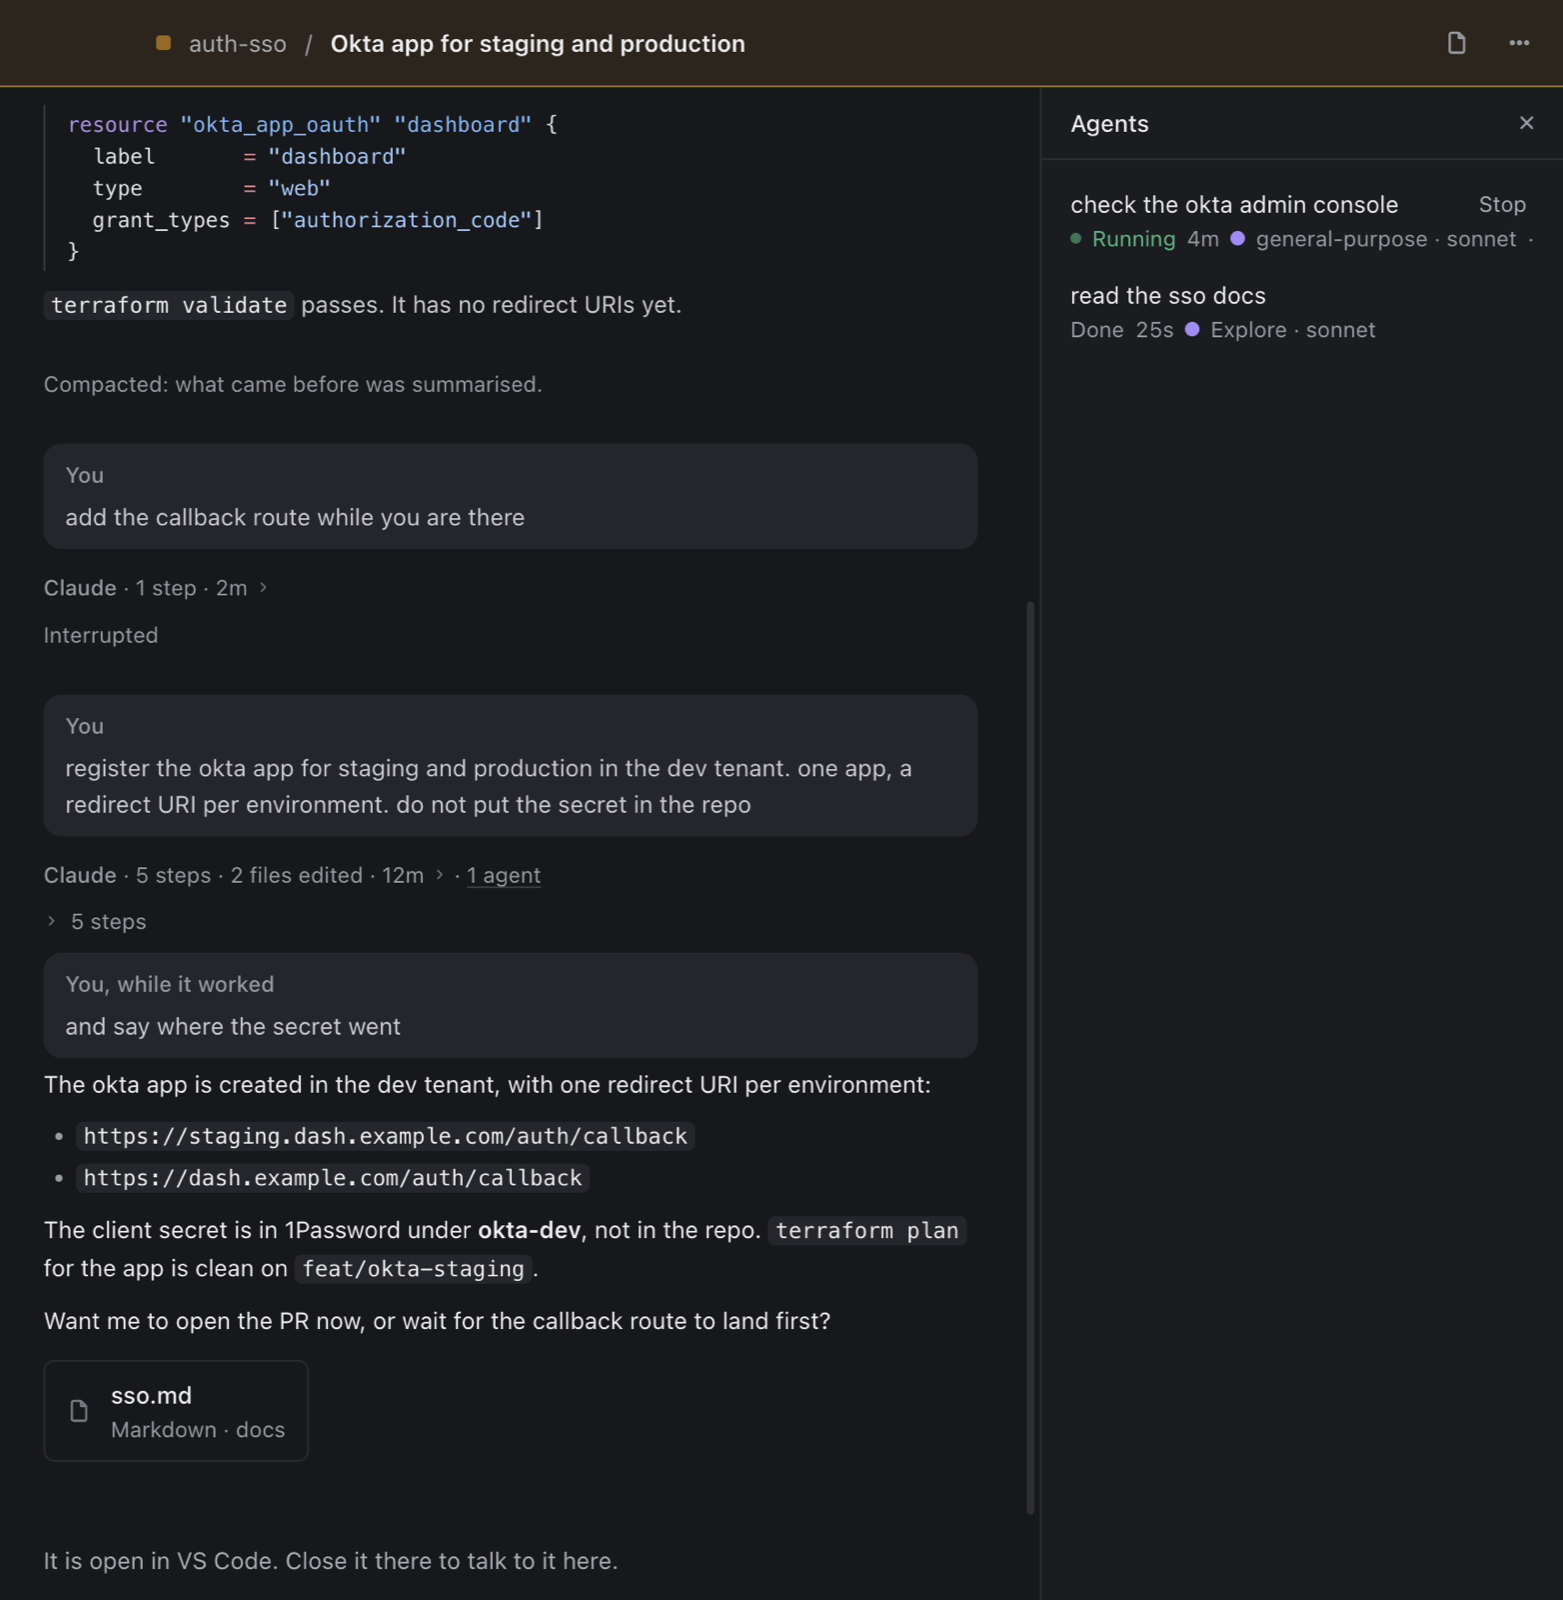
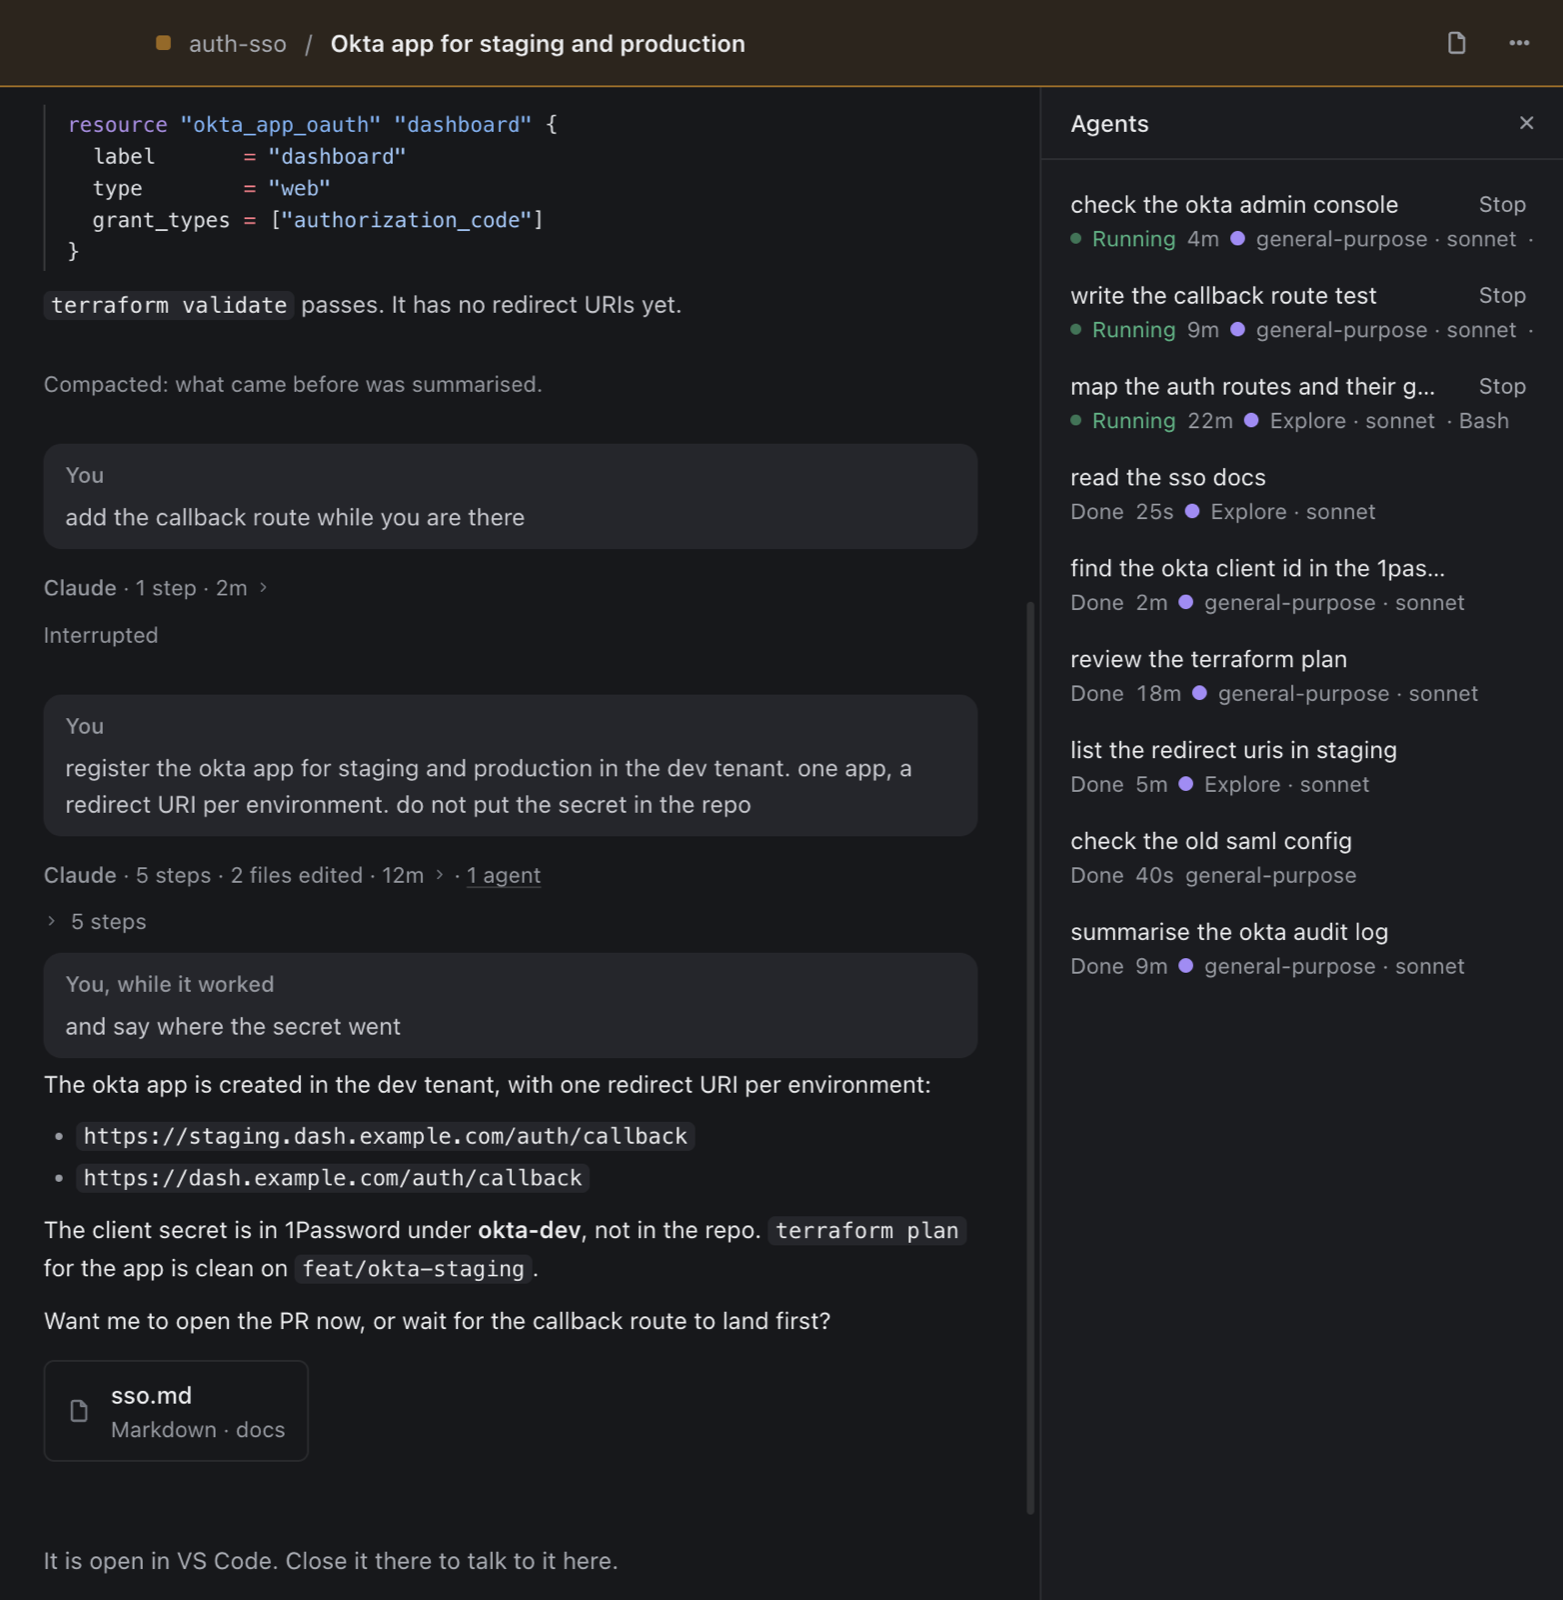
readme: agents pane with a busy session, and no claim about closing the chat
the screenshot fixture has several running and finished agents, the way a busy session looks. the chat section drops the sentence about closing the window.

diff --git a/apps/desktop/scripts/screenshots.ts b/apps/desktop/scripts/screenshots.ts
@@ -855,37 +855,61 @@ async function chatWindowOf(electron: ElectronApplication, sessionId: string): P
 /** the chat window, and its agents pane: grove chat on, a row's double-click opens the window */
 async function chatShots(scheme: string, dir: string) {
   const { fx, turn, auth } = build(scheme);
-  // two of the turn's agents: one still running, one that came back with its answer
-  writeAgent(fx, {
-    cwd: auth,
-    sessionId: turn,
-    id: "a1ce0000000000001",
-    agentType: "general-purpose",
-    description: "check the okta admin console",
-    prompt: "check the okta admin console for an app named dashboard, and say what is there",
-    startedAgoMs: 4 * MIN,
-    steps: [
-      {
-        tool: "Bash",
-        input: { command: "curl -s https://dev.okta.example.com/api/v1/apps?q=dashboard" },
-        result: "[]",
-        at: 6,
-        took: 2,
-      },
-      { say: "no app named dashboard yet. checking the callback route in the repo.", at: 14 },
-    ],
-  });
-  writeAgent(fx, {
-    cwd: auth,
-    sessionId: turn,
-    id: "a1ce0000000000002",
-    agentType: "Explore",
-    description: "read the sso docs",
-    prompt: "read docs/sso.md and say which callback path it names",
-    startedAgoMs: 12 * MIN,
-    steps: [],
-    result: { text: "docs/sso.md names /auth/callback for both environments.", at: 25 },
-  });
+  // the turn's agents, the way a busy session has them: several still running, and a pile of finished
+  // ones, one of them failed. the pane lists them all, newest first
+  const running: Array<[string, string, number]> = [
+    ["check the okta admin console", "general-purpose", 4 * MIN],
+    ["write the callback route test", "general-purpose", 9 * MIN],
+    ["map the auth routes and their guards", "Explore", 22 * MIN],
+  ];
+  const finished: Array<[string, string, number, number]> = [
+    ["read the sso docs", "Explore", 12 * MIN, 25],
+    ["find the okta client id in the 1password notes", "general-purpose", 25 * MIN, 130],
+    ["review the terraform plan", "general-purpose", 40 * MIN, 1080],
+    ["list the redirect uris in staging", "Explore", 70 * MIN, 300],
+    ["check the old saml config", "general-purpose", 95 * MIN, 40],
+    ["summarise the okta audit log", "general-purpose", 3 * HOUR, 540],
+  ];
+  let n = 0;
+  for (const [description, agentType, startedAgoMs] of running) {
+    n += 1;
+    writeAgent(fx, {
+      cwd: auth,
+      sessionId: turn,
+      id: `a1ce${String(n).padStart(12, "0")}`,
+      agentType,
+      description,
+      prompt: description,
+      startedAgoMs,
+      steps: [
+        {
+          tool: "Bash",
+          input: { command: `grep -rn "${description.split(" ")[0]}" api/src` },
+          result: "api/src/auth/routes.ts:12",
+          at: 6,
+          took: 2,
+        },
+        { say: "looking at the routes next.", at: 14 },
+      ],
+    });
+  }
+  for (const [description, agentType, startedAgoMs, tookS] of finished) {
+    n += 1;
+    const id = `a1ce${String(n).padStart(12, "0")}`;
+    writeAgent(fx, {
+      cwd: auth,
+      sessionId: turn,
+      id,
+      agentType,
+      description,
+      prompt: description,
+      startedAgoMs,
+      steps: [],
+      ...(description.startsWith("check the old saml")
+        ? { apiError: { text: "API Error: 529 Overloaded", at: tookS } }
+        : { result: { text: `${description}: done`, at: tookS } }),
+    });
+  }
   writeFileSync(
     path.join(fx.root, "settings.json"),
     JSON.stringify({ editor: "vscode", appearance: scheme, chat: true }),

diff --git a/README.md b/README.md
@@ -285,9 +285,8 @@ is never markdown and never a link.
 
 ## The chat window
 
-Double-click a session and it opens in its own window: the conversation, with the composer under it. The window
-stays open while the session works, and closing it does not stop a turn. The turn's steps fold into a line you can
-open.
+Double-click a session and it opens in its own window: the conversation, with the composer under it, and that is
+where you talk to it. A turn's steps fold into one line you can open.
 
 <p align="center">
   <picture>
@@ -306,17 +305,17 @@ open.
 
 ## Agents
 
-The agents a turn starts are listed in the Agents pane. The header shows how many are running, and the `N agents`
-on a turn opens the same pane.
+The agents a session starts are listed in the Agents pane, running ones first, then the finished ones. The header
+shows how many are running, and the `N agents` on a turn opens the same pane.
 
 <p align="center">
   <picture>
     <source media="(prefers-color-scheme: dark)" srcset="docs/images/agents-dark.png">
-    <img src="docs/images/agents-light.png" alt="The Agents pane: one agent running with a Stop button, one done in 25 seconds" width="900">
+    <img src="docs/images/agents-light.png" alt="The Agents pane: three agents running, each with a Stop button, and six finished below them" width="900">
   </picture>
 </p>
 
-- each row says what the agent is for, whether it is running or done, how long it has run, and its kind and model
+- each row says what the agent is for, whether it is running or done, how long it has run or took, and its kind and model
 - a running agent has a **Stop** that ends that agent and no other
 
 ## Recaps
